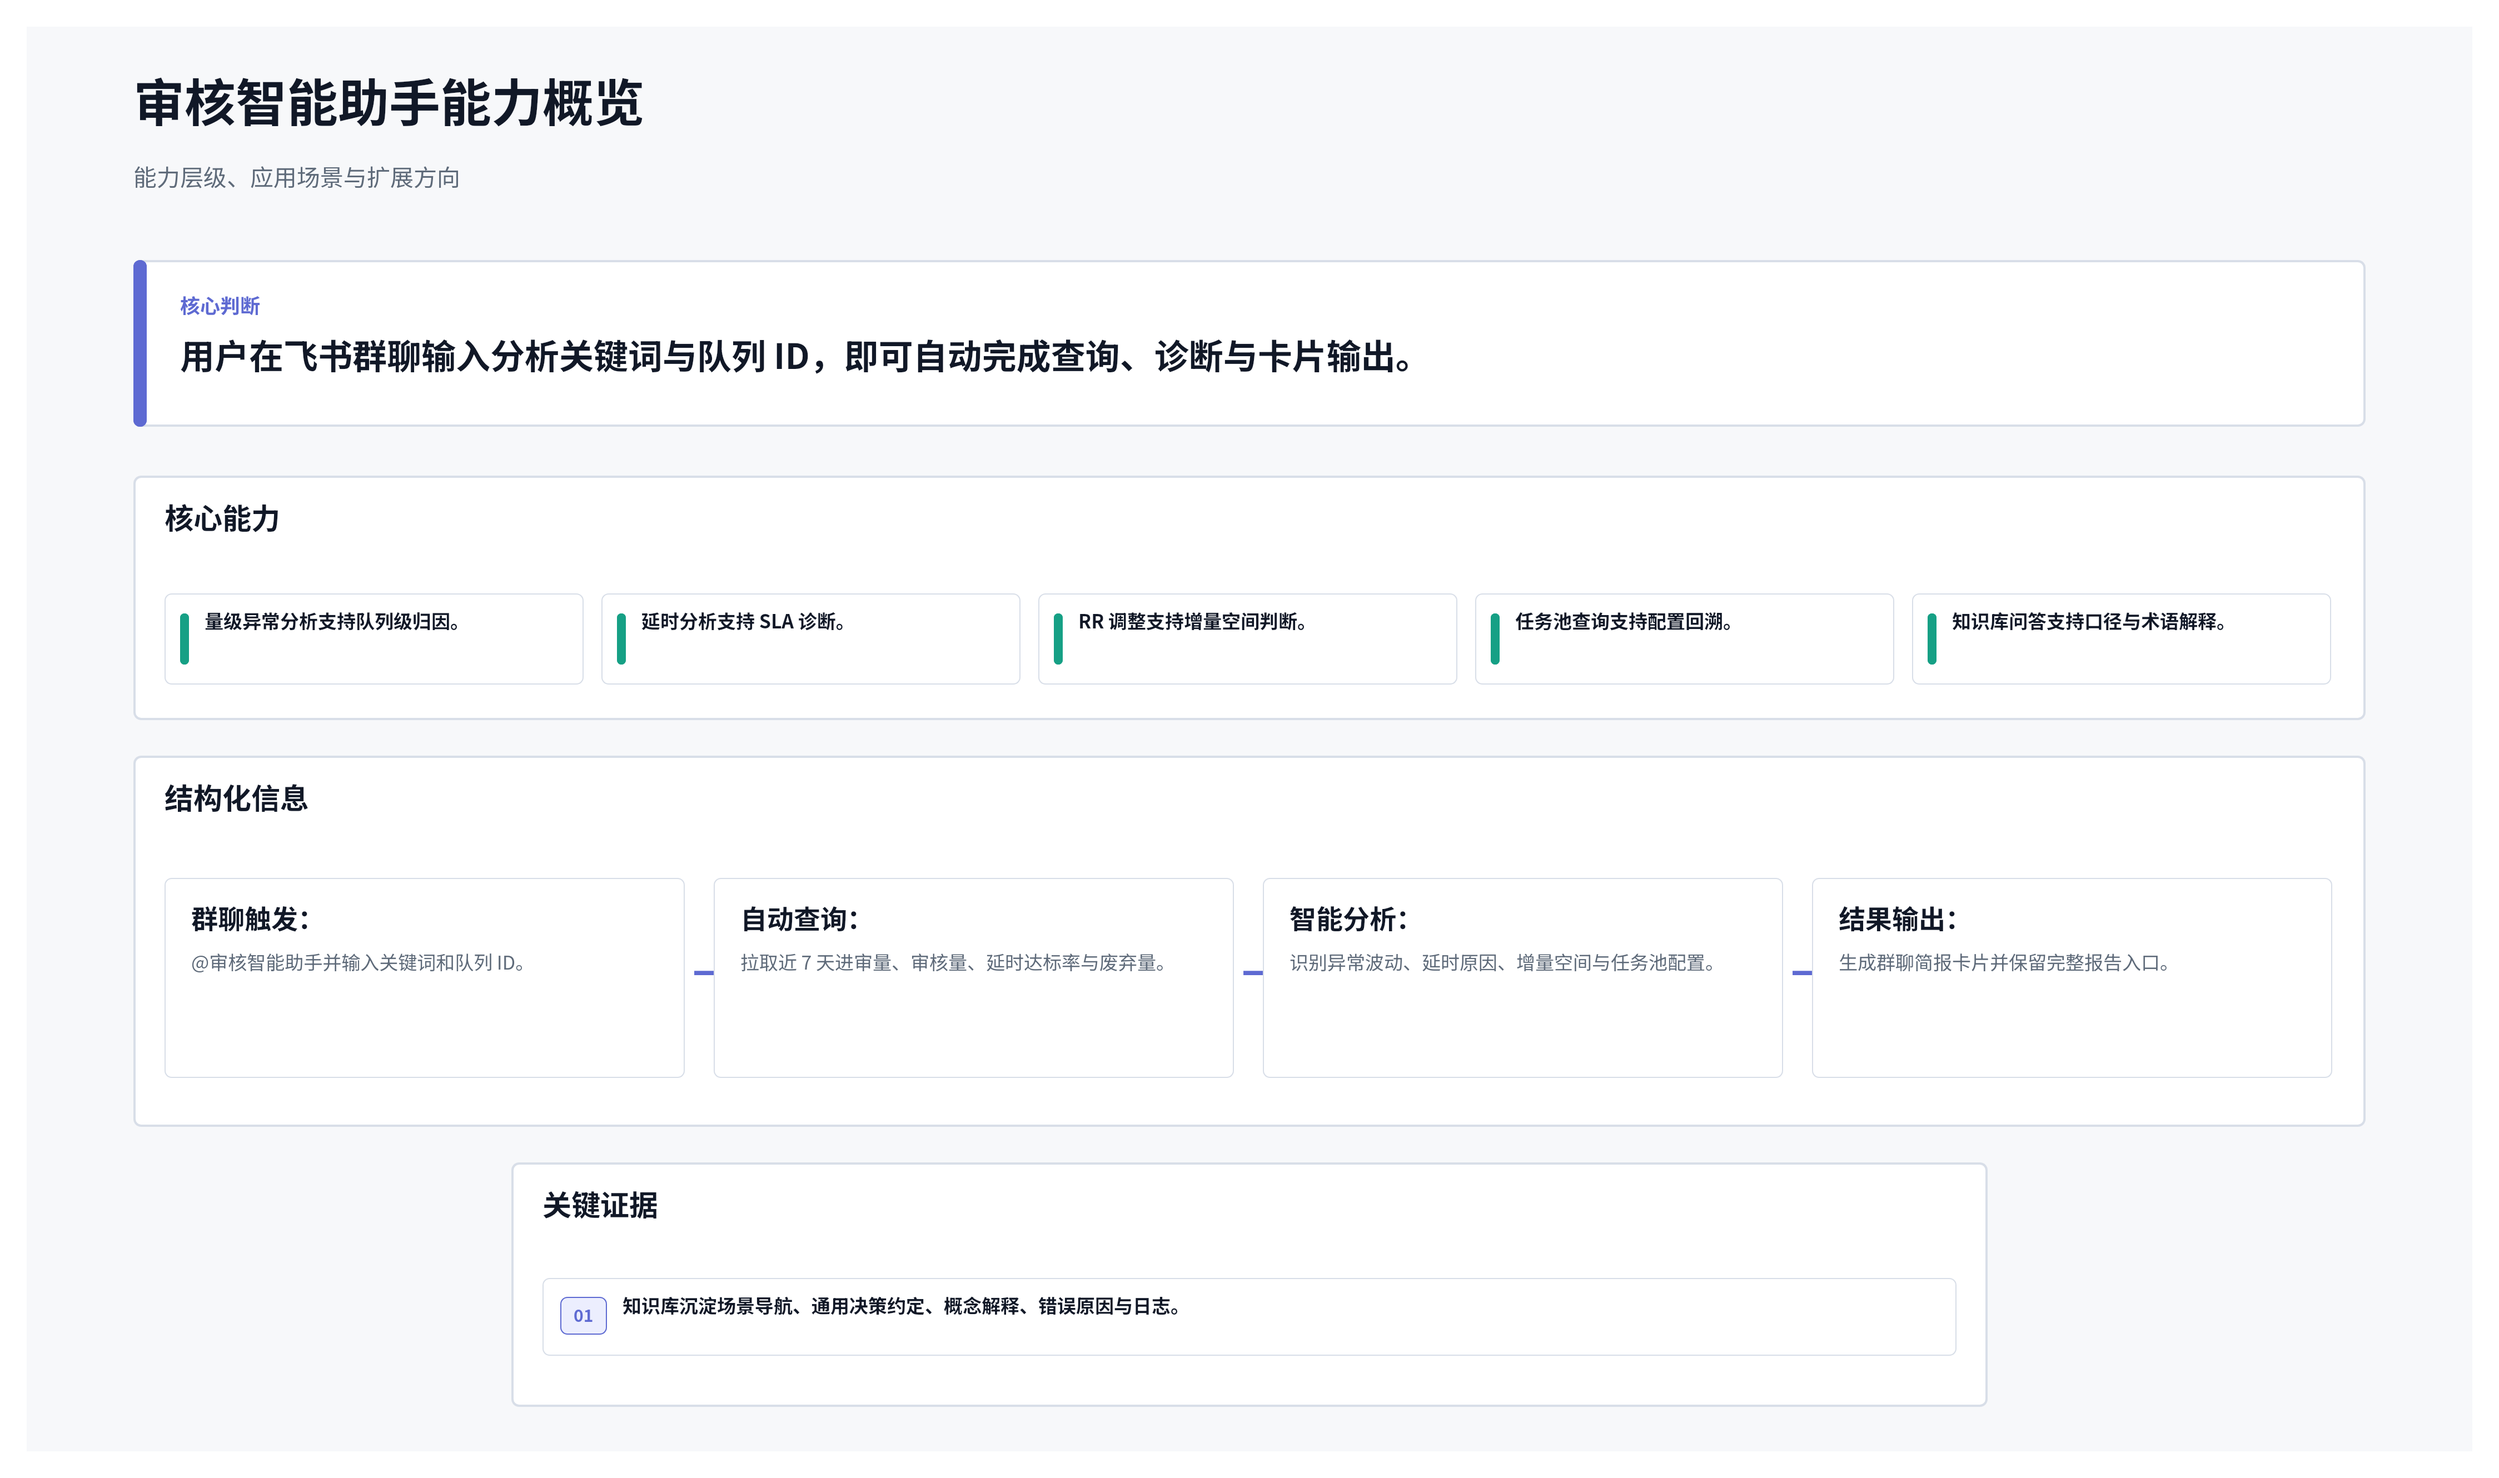
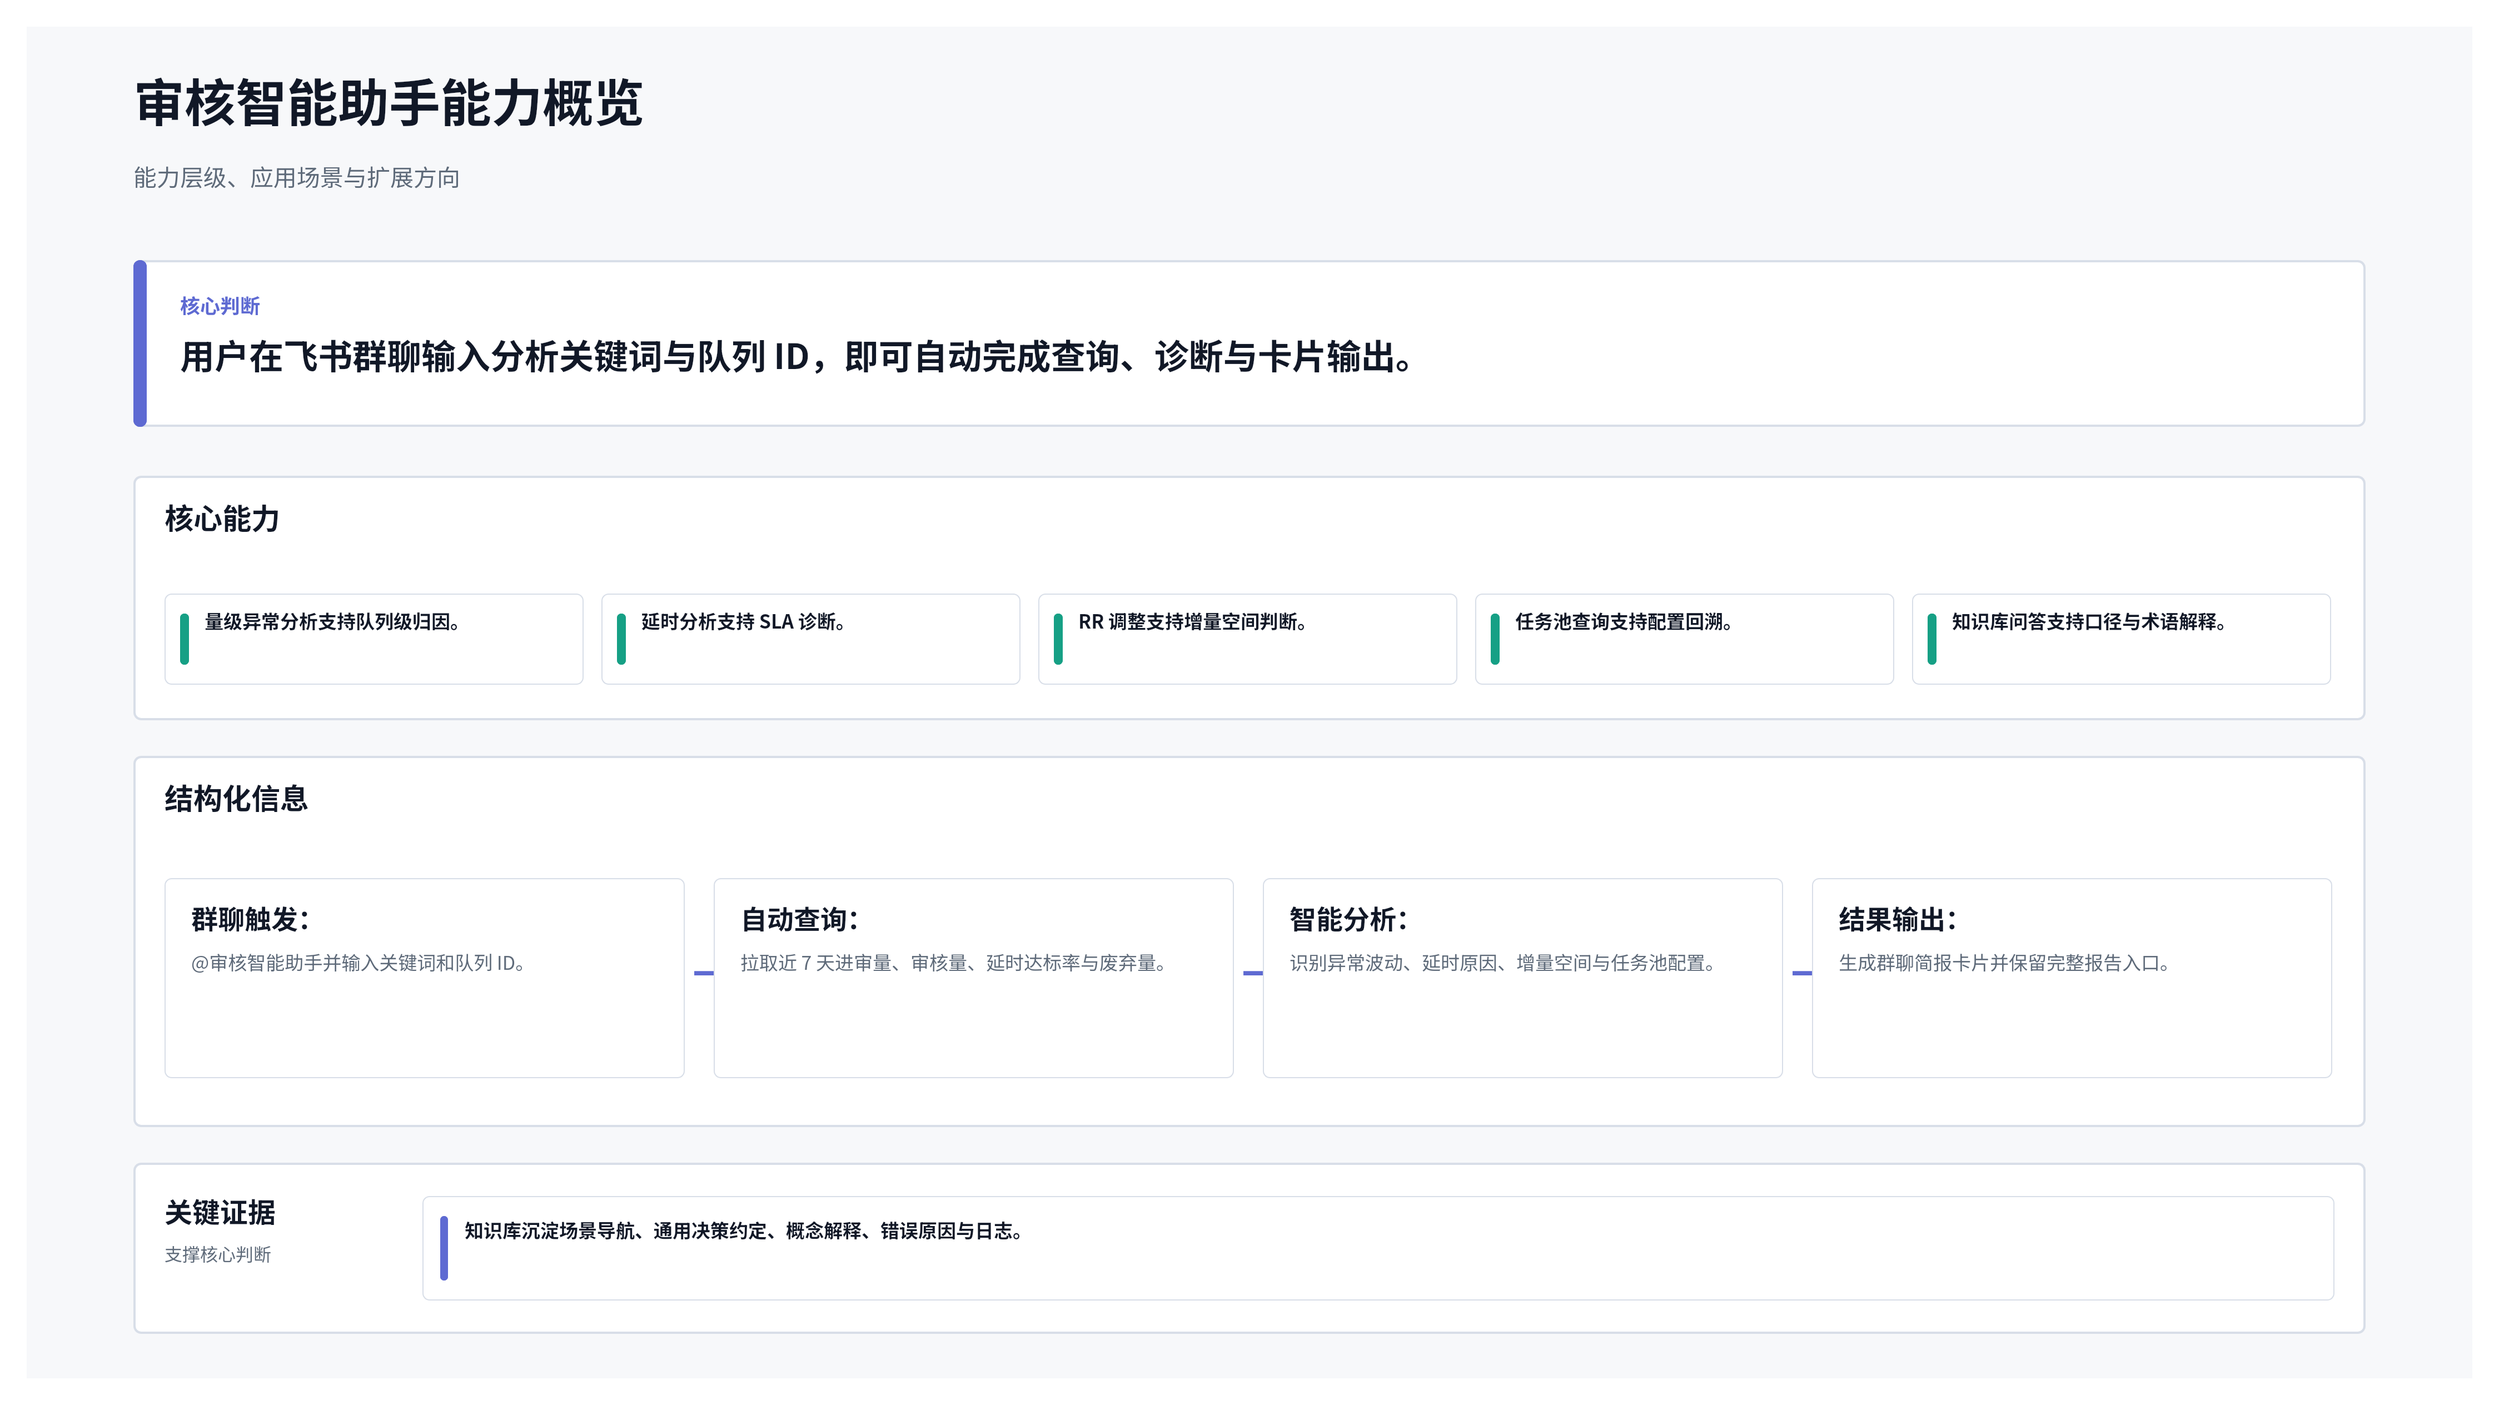
Fix V4.4 onepage closing balance

diff --git a/references/v44-onepage-retrospective.md b/references/v44-onepage-retrospective.md
@@ -17,6 +17,7 @@ The July 2026 cross-Agent samples exposed a system failure rather than an isolat
 - `pageSkeleton` changes geometry, not only ordering. Overview/detail, centered system, past/future split, left/right argument, comparison, timeline, and swimlane have explicit span rules.
 - A onepage expands only inside a bounded aspect range. Capacity is increased through two-dimensional composition, component choice, and balanced grids before canvas height.
 - Three and five peer items must use complete grids. One or two sparse items remain compact and may be centered or paired.
+- A final unpaired support module must not float as a narrow centered card. It becomes a full-width closing band so the page retains a stable visual base.
 - A fact counts as selected only when its visible representation contains that fact. Truncated aggregate copy cannot claim hidden fact IDs.
 - Labels and notes must add different information. The same sentence cannot be rendered twice inside one item.
 
